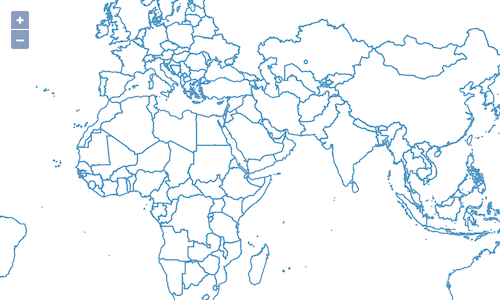
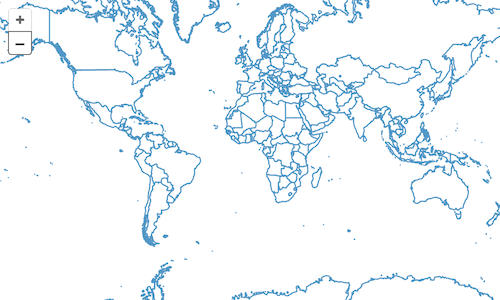
New screenshots - vectortile

diff --git a/src/en/main.js b/src/en/main.js
@@ -1,1 +1,51 @@
-alert('Hello Workshop');
+import {Map, View} from 'ol';
+import {MapboxVectorLayer} from 'ol-mapbox-style';
+import {fromLonLat} from 'ol/proj';
+//! [import-layer]
+import VectorLayer from 'ol/layer/Vector';
+import VectorSource from 'ol/source/Vector';
+import {Stroke, Style} from 'ol/style';
+//! [import-layer]
+//! [import-interaction]
+import Feature from 'ol/Feature';
+import {fromExtent} from 'ol/geom/Polygon';
+//! [import-interaction]
+
+const map = new Map({
+  target: 'map-container',
+  view: new View({
+    center: fromLonLat([0, 0]),
+    zoom: 2,
+  }),
+});
+
+const layer = new MapboxVectorLayer({
+  styleUrl: 'https://tiles.openfreemap.org/styles/bright',
+  // or, instead of the above, try
+  // styleUrl: 'mapbox://styles/mapbox/bright-v9',
+  // accessToken: 'Your token from https://mapbox.com/'
+});
+map.addLayer(layer);
+
+//! [layer]
+const source = new VectorSource();
+new VectorLayer({
+  map: map,
+  source: source,
+  style: new Style({
+    stroke: new Stroke({
+      color: 'red',
+      width: 4,
+    }),
+  }),
+});
+//! [layer]
+//! [interaction]
+map.on('pointermove', function (event) {
+  source.clear();
+  map.forEachFeatureAtPixel(event.pixel, function (feature) {
+    const geometry = feature.getGeometry();
+    source.addFeature(new Feature(fromExtent(geometry.getExtent())));
+  });
+});
+//! [interaction]

diff --git a/src/en/examples/vectortile/interact.js b/src/en/examples/vectortile/interact.js
@@ -1,5 +1,5 @@
-import MapboxVectorLayer from 'ol/layer/MapboxVector';
 import {Map, View} from 'ol';
+import {MapboxVectorLayer} from 'ol-mapbox-style';
 import {fromLonLat} from 'ol/proj';
 //! [import-layer]
 import VectorLayer from 'ol/layer/Vector';
@@ -20,8 +20,7 @@ const map = new Map({
 });
 
 const layer = new MapboxVectorLayer({
-  styleUrl:
-    'https://api.maptiler.com/maps/bright/style.json?key=lirfd6Fegsjkvs0lshxe',
+  styleUrl: 'https://tiles.openfreemap.org/styles/bright',
   // or, instead of the above, try
   // styleUrl: 'mapbox://styles/mapbox/bright-v9',
   // accessToken: 'Your token from https://mapbox.com/'
@@ -44,15 +43,9 @@ new VectorLayer({
 //! [interaction]
 map.on('pointermove', function (event) {
   source.clear();
-  map.forEachFeatureAtPixel(
-    event.pixel,
-    function (feature) {
-      const geometry = feature.getGeometry();
-      source.addFeature(new Feature(fromExtent(geometry.getExtent())));
-    },
-    {
-      hitTolerance: 2,
-    }
-  );
+  map.forEachFeatureAtPixel(event.pixel, function (feature) {
+    const geometry = feature.getGeometry();
+    source.addFeature(new Feature(fromExtent(geometry.getExtent())));
+  });
 });
 //! [interaction]

diff --git a/src/en/examples/vectortile/bright.js b/src/en/examples/vectortile/bright.js
@@ -1,6 +1,6 @@
 //
 //! [import]
-import MapboxVectorLayer from 'ol/layer/MapboxVector';
+import {MapboxVectorLayer} from 'ol-mapbox-style';
 //! [import]
 import {Map, View} from 'ol';
 import {fromLonLat} from 'ol/proj';
@@ -17,8 +17,7 @@ const map = new Map({
 
 //! [layer]
 const layer = new MapboxVectorLayer({
-  styleUrl:
-    'https://api.maptiler.com/maps/bright/style.json?key=lirfd6Fegsjkvs0lshxe',
+  styleUrl: 'https://tiles.openfreemap.org/styles/bright',
   // or, instead of the above, try
   // styleUrl: 'mapbox://styles/mapbox/bright-v9',
   // accessToken: 'Your token from https://mapbox.com/'

diff --git a/src/en/index.html b/src/en/index.html
@@ -3,8 +3,20 @@
   <head>
     <meta charset="utf-8">
     <title>OpenLayers</title>
+    <style>
+      @import "node_modules/ol/ol.css";
+    </style>
+    <style>
+      html, body, #map-container {
+        margin: 0;
+        height: 300px;
+        width: 500px;
+        font-family: sans-serif;
+      }
+    </style>
   </head>
   <body>
+    <div id="map-container"></div>
     <script src="./main.js" type="module"></script>
   </body>
 </html>

diff --git a/doc/en/vectortile/bright.md b/doc/en/vectortile/bright.md
@@ -10,30 +10,27 @@ Mapbox finally came up with Mapbox Studio, a very user-friendly style editor, an
 
 ## Using a Mapbox Style definition
 
-There are two ways to use vector tile layers with Mapbox styles in OpenLayers. The easiest is the `MapboxVector` layer. It is configured with an url that points to a Mapbox Style document. Let's try it out.
+With the additional [ol-mapbox-style](https://npmjs.com/package/ol-mapbox-style/) library, there are several ways to use vector tile layers with Mapbox styles in OpenLayers. The easiest is the `MapboxVector` layer from the `ol-mapbox-style` import. It is configured with a url that points to a Mapbox Style document. Let's try it out.
 
 First, add the required import:
 
 [import:'import'](../../../src/en/examples/vectortile/bright.js)
 
-The tile dataset we are going to use is https://cloud.maptiler.com/maps/bright/. To add it to our example, you'll need a MapTiler account (please replace the key in the code below with yours). Alternatively, if you have a Mapbox account, you could use the original of that map from Mapbox (see comments in the code below).
+The tile dataset we are going to use is https://tiles.openfreemap.org/styles/bright. Alternatively, if you have a Mapbox account, you could use the ancestor of that map from Mapbox (see comments in the code below).
 
 [import:'layer'](../../../src/en/examples/vectortile/bright.js)
 
-The above code replaces the `VectorTileLayer` from the previous step. When everything works as expected, we can finally enjoy a nice looking world map, and zoom in to Buenos Aires!
+The above code replaces the `VectorTileLayer` from the previous step. When everything works as expected, we can finally enjoy a nice looking world map, and zoom in to Belém!
 
-![A bright map of Buenos Aires](bright.png)
+![A bright map of Belém](bright.png)
 
 ## Build a complete map from a Mapbox Style definition
 
 The Mapbox Style format was not just made for styling vector data. It was made to describe an entire map, with all its sources and layers, and its initial view configuration (e.g. center and zoom level).
 
-The [ol-mapbox-style](https://npmjs.com/package/ol-mapbox-style/) package (that is part of the workshop dependencies) adds support for the Mapbox Style format to OpenLayers. So the second way to use a vector tile layer with OpenLayers would be to let `ol-mapbox-style` create the whole map. If you want to try that, you could replace the whole code in `main.js` with this:
+With `ol-mapbox-style`'s `apply()` function, it is also possible to create a whole map from a Mapbox Style. If you want to try that, you could replace the whole code in `main.js` with this:
 ```js
-import olms from 'ol-mapbox-style';
-olms(
-  'map-container',
-  'https://api.maptiler.com/maps/bright/style.json?key=lirfd6Fegsjkvs0lshxe'
-);
+import {apply} from 'ol-mapbox-style';
+apply('map-container', 'https://tiles.openfreemap.org/styles/bright');
 ```
 After trying this, switch back to the previous code, as we will be looking into how to interact with a vector tile map.
